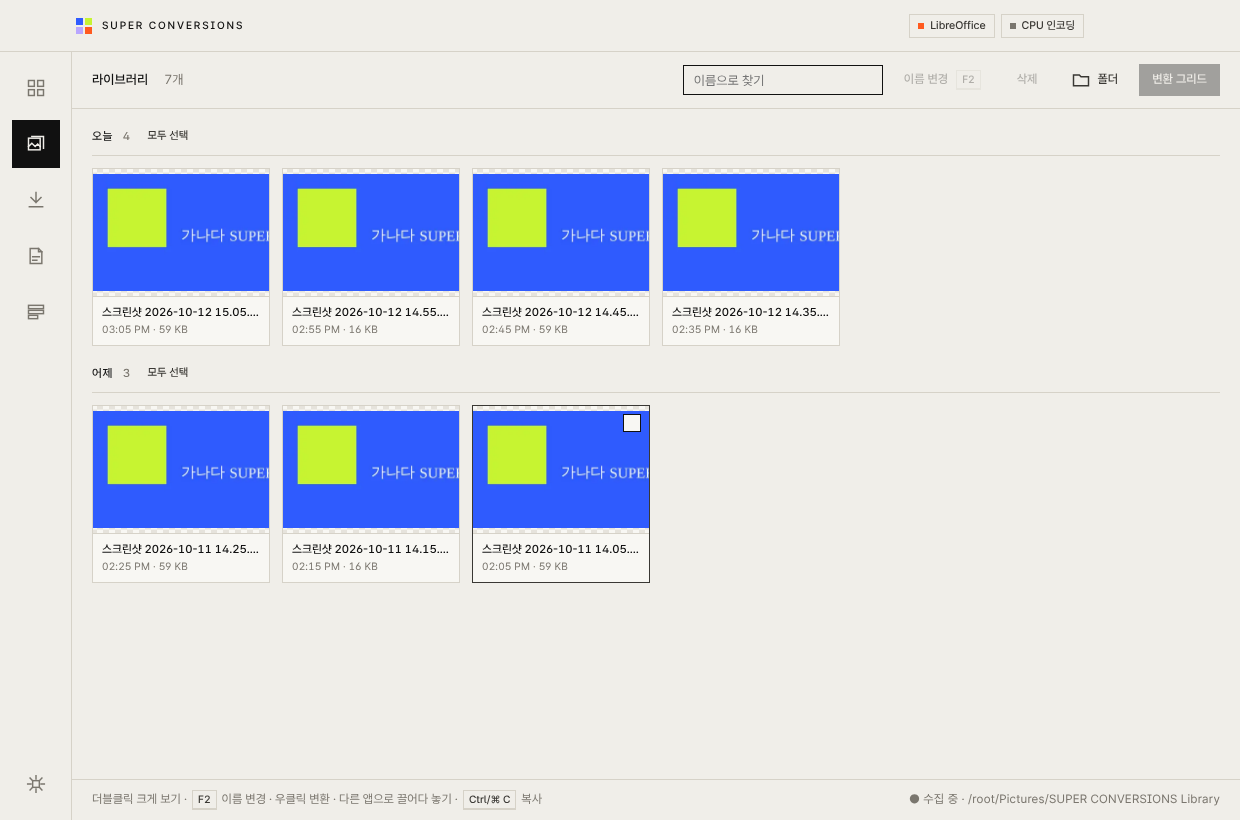
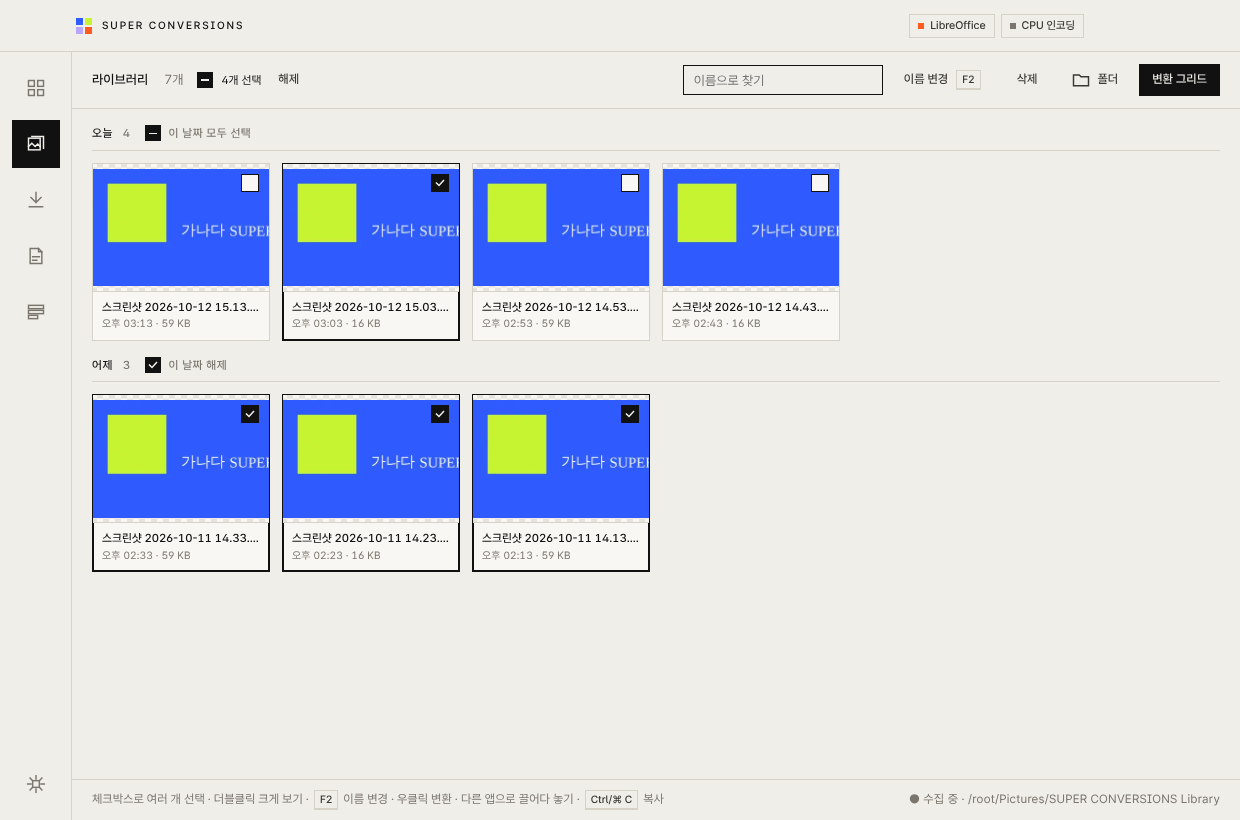
체크박스·전체 선택으로 여러 파일 선택 (Ctrl 없이)
Claude-Session: https://claude.ai/code/session_01LHmiibpoSay6Wsauo541aD

diff --git a/src/renderer/src/views/LibraryView.tsx b/src/renderer/src/views/LibraryView.tsx
@@ -6,6 +6,7 @@ import { cls, fmtBytes } from '../lib/util'
 import GridMenu, { type GridPick } from '../components/GridMenu'
 import OptionsPanel from '../components/OptionsPanel'
 import RenameModal from '../components/RenameModal'
+import SelectAll from '../components/SelectAll'
 import { IcCheck, IcFolder } from '../lib/icons'
 
 interface Props {
@@ -42,6 +43,19 @@ export default function LibraryView({ settings, setSettings, engines, toast, onO
   const [preview, setPreview] = useState<string | null>(null)
   const [big, setBig] = useState<string | null>(null)
   const loadedThumbs = useRef(new Set<string>())
+  const [checkMode, setCheckMode] = useState(false)
+  useEffect(() => {
+    if (sel.size === 0) setCheckMode(false)
+  }, [sel])
+  const toggle = (p: string) => {
+    setSel((s) => {
+      const n = new Set(s)
+      n.has(p) ? n.delete(p) : n.add(p)
+      return n
+    })
+    setAnchor(p)
+    setCheckMode(true)
+  }
 
   const load = useCallback(async () => {
     const r = await sc.libraryList()
@@ -92,13 +106,8 @@ export default function LibraryView({ settings, setSettings, engines, toast, onO
       const b = order.indexOf(p)
       const [lo, hi] = a < b ? [a, b] : [b, a]
       setSel(new Set(order.slice(lo, hi + 1)))
-    } else if (e.metaKey || e.ctrlKey) {
-      setSel((s) => {
-        const n = new Set(s)
-        n.has(p) ? n.delete(p) : n.add(p)
-        return n
-      })
-      setAnchor(p)
+    } else if (e.metaKey || e.ctrlKey || checkMode) {
+      toggle(p)
     } else {
       setSel(new Set([p]))
       setAnchor(p)
@@ -188,7 +197,7 @@ export default function LibraryView({ settings, setSettings, engines, toast, onO
         <div className="toolbar">
           <span className="title">라이브러리</span>
           <span className="muted">{items.length}개</span>
-          {selected.length > 0 && <span className="chip">{selected.length}개 선택</span>}
+          <SelectAll total={shown.length} selected={selected.length} onAll={() => (setSel(new Set(order)), setCheckMode(true))} onNone={() => setSel(new Set())} />
           <span className="grow" />
           <input className="inp" style={{ width: 200, height: 30 }} placeholder="이름으로 찾기" value={q} onChange={(e) => setQ(e.target.value)} />
           <button className="btn ghost" disabled={!selected.length} onClick={() => setRenaming(selected)}>
@@ -245,11 +254,30 @@ export default function LibraryView({ settings, setSettings, engines, toast, onO
                 <div className="lib-day">
                   <span>{g.label}</span>
                   <span className="muted">{g.items.length}</span>
-                  <button className="btn ghost" style={{ height: 22, padding: '0 6px', fontSize: 11 }} onClick={() => setSel(new Set(g.items.map((i) => i.path)))}>
-                    모두 선택
-                  </button>
+                  {(() => {
+                    const all = g.items.every((i) => sel.has(i.path))
+                    const some = !all && g.items.some((i) => sel.has(i.path))
+                    const flip = () => {
+                      setSel((s) => {
+                        const n = new Set(s)
+                        g.items.forEach((i) => (all ? n.delete(i.path) : n.add(i.path)))
+                        return n
+                      })
+                      setCheckMode(true)
+                    }
+                    return (
+                      <span className="select-all" style={{ marginLeft: 4 }}>
+                        <button className={cls('cbox', (all || some) && 'on')} onClick={flip} aria-label={`${g.label} 전체 선택`}>
+                          {all ? <IcCheck /> : some ? <i className="dash" /> : null}
+                        </button>
+                        <span className="lbl muted" onClick={flip}>
+                          {all ? '이 날짜 해제' : '이 날짜 모두 선택'}
+                        </span>
+                      </span>
+                    )
+                  })()}
                 </div>
-                <div className="tiles lib-tiles">
+                <div className={cls('tiles lib-tiles', checkMode && 'checking')}>
                   {g.items.map((it) => (
                     <div
                       key={it.path}
@@ -271,7 +299,17 @@ export default function LibraryView({ settings, setSettings, engines, toast, onO
                           {new Date(it.ctime).toLocaleTimeString('ko-KR', { hour: '2-digit', minute: '2-digit' })} · {fmtBytes(it.size)}
                         </span>
                       </div>
-                      <span className="check">{sel.has(it.path) && <IcCheck />}</span>
+                      <button
+                        className="check"
+                        onClick={(e) => {
+                          e.stopPropagation()
+                          toggle(it.path)
+                        }}
+                        onDoubleClick={(e) => e.stopPropagation()}
+                        aria-label={sel.has(it.path) ? '선택 해제' : '선택'}
+                      >
+                        {sel.has(it.path) && <IcCheck />}
+                      </button>
                     </div>
                   ))}
                 </div>
@@ -281,7 +319,7 @@ export default function LibraryView({ settings, setSettings, engines, toast, onO
         </div>
         <div className="statusbar">
           <span>
-            더블클릭 크게 보기 · <span className="kbd">F2</span> 이름 변경 · 우클릭 변환 · 다른 앱으로 끌어다 놓기 · <span className="kbd">Ctrl/⌘ C</span> 복사
+            체크박스로 여러 개 선택 · 더블클릭 크게 보기 · <span className="kbd">F2</span> 이름 변경 · 우클릭 변환 · 다른 앱으로 끌어다 놓기 · <span className="kbd">Ctrl/⌘ C</span> 복사
           </span>
           <span className="grow" />
           <span className="mono" title={dir} style={{ overflow: 'hidden', textOverflow: 'ellipsis', whiteSpace: 'nowrap', maxWidth: 360 }}>

diff --git a/src/renderer/src/views/ConvertView.tsx b/src/renderer/src/views/ConvertView.tsx
@@ -6,6 +6,7 @@ import { baseName, cls, fmtBytes, toneOfPath } from '../lib/util'
 import GridMenu, { type GridPick } from '../components/GridMenu'
 import OptionsPanel from '../components/OptionsPanel'
 import RenameModal from '../components/RenameModal'
+import SelectAll from '../components/SelectAll'
 import { IcCheck, IcFile, IcFolder, IcLink, IcX } from '../lib/icons'
 
 interface Props {
@@ -32,6 +33,20 @@ export default function ConvertView(p: Props) {
   const [sizes, setSizes] = useState<Record<string, number>>({})
   const [dragIdx, setDragIdx] = useState<number | null>(null)
   const [renaming, setRenaming] = useState<string[] | null>(null)
+  // checkbox mode: once a checkbox / select-all is used, plain clicks toggle instead of replacing
+  const [checkMode, setCheckMode] = useState(false)
+  useEffect(() => {
+    if (sel.size === 0) setCheckMode(false)
+  }, [sel])
+  const toggle = (f: string) => {
+    setSel((s) => {
+      const n = new Set(s)
+      n.has(f) ? n.delete(f) : n.add(f)
+      return n
+    })
+    setAnchor(f)
+    setCheckMode(true)
+  }
   const tilesRef = useRef<HTMLDivElement>(null)
 
   // latest result per input path
@@ -104,11 +119,8 @@ export default function ConvertView(p: Props) {
       const b = files.indexOf(f)
       const [lo, hi] = a < b ? [a, b] : [b, a]
       setSel(new Set(files.slice(lo, hi + 1)))
-    } else if (mod) {
-      const n = new Set(sel)
-      n.has(f) ? n.delete(f) : n.add(f)
-      setSel(n)
-      setAnchor(f)
+    } else if (mod || checkMode) {
+      toggle(f)
     } else {
       setSel(sel.size === 1 && sel.has(f) ? new Set() : new Set([f]))
       setAnchor(f)
@@ -232,7 +244,7 @@ export default function ConvertView(p: Props) {
       <div className="board-main">
         <div className="toolbar">
           <span className="title">{files.length}개 파일</span>
-          {selected.length > 0 && <span className="chip">{selected.length}개 선택</span>}
+          <SelectAll total={files.length} selected={selected.length} onAll={() => (setSel(new Set(files)), setCheckMode(true))} onNone={() => setSel(new Set())} />
           <span className="grow" />
           <button className="btn ghost" onClick={() => setRenaming(selected.length ? selected : files)} title="선택한 파일(없으면 전체)의 이름을 바꿉니다">
             이름 변경 <span className="kbd">F2</span>
@@ -257,7 +269,7 @@ export default function ConvertView(p: Props) {
           </button>
         </div>
         <div
-          className="tiles"
+          className={cls('tiles', checkMode && 'checking')}
           ref={tilesRef}
           onMouseDown={(e) => e.target === e.currentTarget && setSel(new Set())}
           onContextMenu={(e) => {
@@ -308,7 +320,17 @@ export default function ConvertView(p: Props) {
                   <span className="size mono">{fmtBytes(sizes[f])}</span>
                 </div>
                 <span className="ext">{ext.toUpperCase()}</span>
-                <span className="check">{sel.has(f) && <IcCheck />}</span>
+                <button
+                  className="check"
+                  onClick={(e) => {
+                    e.stopPropagation()
+                    toggle(f)
+                  }}
+                  onDoubleClick={(e) => e.stopPropagation()}
+                  aria-label={sel.has(f) ? '선택 해제' : '선택'}
+                >
+                  {sel.has(f) && <IcCheck />}
+                </button>
                 <button
                   className="x"
                   onClick={(e) => {
@@ -335,7 +357,7 @@ export default function ConvertView(p: Props) {
         </div>
         <div className="statusbar">
           <span>
-            파일 <b>우클릭</b> 또는 <span className="kbd">Space</span> → 변환 그리드 · 숫자패드 <span className="kbd">1</span>–<span className="kbd">9</span> 로 바로 선택 · <span className="kbd">F2</span> 이름 변경
+            체크박스로 여러 개 선택 · 파일 <b>우클릭</b> 또는 <span className="kbd">Space</span> → 변환 그리드 · 숫자패드 <span className="kbd">1</span>–<span className="kbd">9</span> 로 바로 선택 · <span className="kbd">F2</span> 이름 변경
           </span>
           <span className="grow" />
           <span>{cats.size > 1 ? '여러 종류 선택됨 → 그리드에서 종류를 먼저 고릅니다' : ''}</span>

diff --git a/src/main/index.ts b/src/main/index.ts
@@ -399,6 +399,11 @@ async function devShots(dir: string, files: string[]) {
   main!.webContents.send('main:load', files)
   await wait(2500)
   await shot('02-board')
+  await js(`(() => { const c = document.querySelectorAll('.tile .check'); c[0].click(); c[2].click(); c[5].click() })()`)
+  await wait(400)
+  await shot('02b-checks')
+  await js(`document.querySelector('.select-all .btn')?.click()`)
+  await wait(200)
   await js(`(() => { const t = document.querySelectorAll('.tile')[1]; const r = t.getBoundingClientRect(); t.dispatchEvent(new MouseEvent('contextmenu', { bubbles: true, clientX: r.left + 80, clientY: r.top + 80 })) })()`)
   await wait(900)
   await shot('03-grid')
@@ -440,6 +445,12 @@ async function devShots(dir: string, files: string[]) {
   await js(`document.querySelectorAll('.rail button')[1].click()`)
   await wait(2500)
   await shot('09-library')
+  await js(`document.querySelectorAll('.lib-day .cbox')[1].click()`)
+  await js(`document.querySelectorAll('.lib-group')[0].querySelectorAll('.tile .check')[1].click()`)
+  await wait(400)
+  await shot('09b-library-checks')
+  await js(`document.querySelector('.toolbar .select-all .btn')?.click()`)
+  await wait(200)
   await js(`document.body.dispatchEvent(new KeyboardEvent('keydown', { key: 'a', ctrlKey: true, bubbles: true }))`)
   await wait(300)
   await js(`document.body.dispatchEvent(new KeyboardEvent('keydown', { key: 'F2', bubbles: true }))`)

diff --git a/src/renderer/src/styles.css b/src/renderer/src/styles.css
@@ -613,24 +613,70 @@ textarea {
 }
 .tile .check {
   position: absolute;
-  top: 8px;
-  right: 8px;
-  width: 18px;
-  height: 18px;
-  border: 1.5px solid var(--ink);
-  background: var(--surface);
+  top: 6px;
+  right: 6px;
+  width: 26px;
+  height: 26px;
   display: grid;
   place-items: center;
   opacity: 0;
   transition: opacity 0.12s;
+  z-index: 3;
+}
+/* the visible box is smaller than the hit area */
+.tile .check::before {
+  content: '';
+  position: absolute;
+  inset: 4px;
+  border: 1.5px solid var(--ink);
+  background: var(--surface);
+}
+.tile .check svg {
+  position: relative;
 }
 .tile:hover .check,
-.tile.sel .check {
+.tile.sel .check,
+.tiles.checking .tile .check {
   opacity: 1;
 }
+.tile.sel .check::before {
+  background: var(--ink);
+}
 .tile.sel .check {
+  color: var(--inverse);
+}
+.tiles.checking .tile {
+  cursor: pointer;
+}
+.select-all {
+  display: inline-flex;
+  align-items: center;
+  gap: 8px;
+  margin-left: 6px;
+}
+.select-all .lbl {
+  font-size: var(--fs-s);
+  cursor: pointer;
+  white-space: nowrap;
+}
+.cbox {
+  width: 16px;
+  height: 16px;
+  border: 1.5px solid var(--ink);
+  background: var(--surface);
+  display: grid;
+  place-items: center;
+  flex: none;
+}
+.cbox.on {
   background: var(--ink);
   color: var(--inverse);
+}
+.cbox .dash {
+  width: 8px;
+  height: 1.5px;
+  background: currentColor;
+  display: block;
 }
 .tile .x {
   position: absolute;

diff --git a/src/renderer/src/components/SelectAll.tsx b/src/renderer/src/components/SelectAll.tsx
@@ -1,0 +1,22 @@
+import { IcCheck } from '../lib/icons'
+import { cls } from '../lib/util'
+
+/** Toolbar "select all" checkbox with an indeterminate (partial) state. */
+export default function SelectAll({ total, selected, onAll, onNone }: { total: number; selected: number; onAll: () => void; onNone: () => void }) {
+  const state = selected === 0 ? 'none' : selected >= total ? 'all' : 'some'
+  return (
+    <div className="select-all">
+      <button className={cls('cbox', state !== 'none' && 'on')} onClick={() => (state === 'all' ? onNone() : onAll())} aria-label={state === 'all' ? '전체 해제' : '전체 선택'} role="checkbox" aria-checked={state === 'all' ? true : state === 'some' ? 'mixed' : false}>
+        {state === 'all' ? <IcCheck /> : state === 'some' ? <i className="dash" /> : null}
+      </button>
+      <span className="lbl" onClick={() => (state === 'all' ? onNone() : onAll())}>
+        {selected ? `${selected}개 선택` : '전체 선택'}
+      </span>
+      {selected > 0 && (
+        <button className="btn ghost" style={{ height: 26, padding: '0 8px' }} onClick={onNone}>
+          해제
+        </button>
+      )}
+    </div>
+  )
+}
